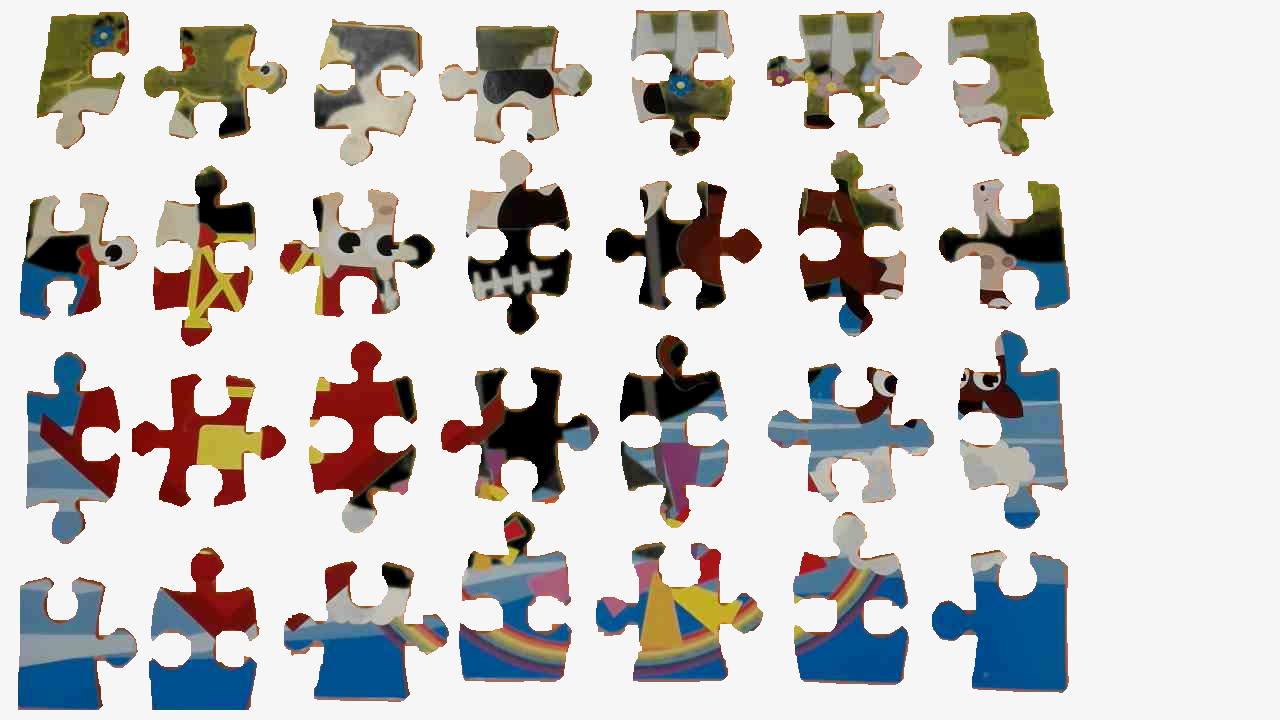
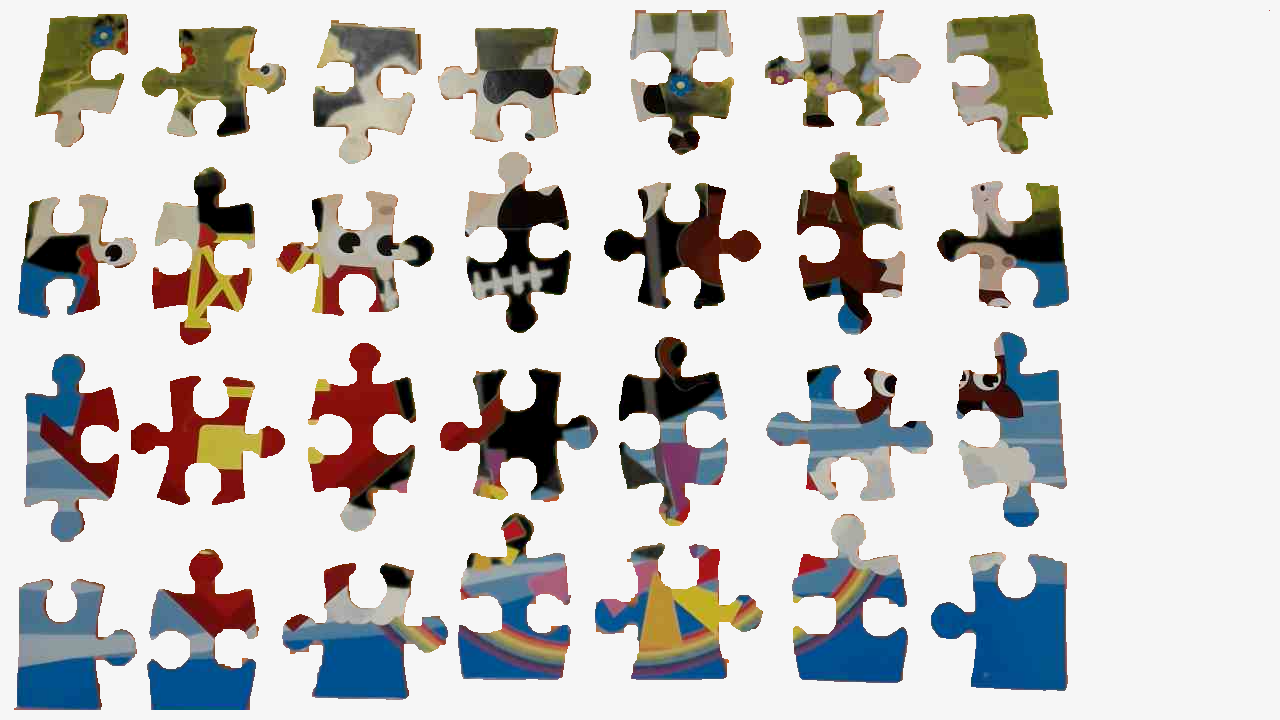
Wed Mar 12 03:05:37 PM CET 2025

Changed region(s): [[0.75, 0.4889, 0.7812, 0.5194], [0.4688, 0.825, 0.5, 0.8556]]

diff --git a/src/analyse.cpp b/src/analyse.cpp
@@ -3,11 +3,10 @@
  * @brief Contains the main program of the project
  **************************************************************************************************/
 
-#include <filesystem>
 #include <iostream>
-#include <bits/fs_ops.h>
-
+#include <unordered_set>
 #include "image_io.h"
+#include "utility.hpp"
 
 bool operator==(const Color& first, const Color& second) {
     return first.r == second.r && first.g == second.g && first.b == second.b;
@@ -25,8 +24,8 @@ bool isColorSimilar(const Color& color, const Color& base, const Color& epsilon)
 
 namespace MathematicalMorphology {
     enum StructuringElement : bool {
-        Square,
-        Cross
+        Square = true,
+        Cross  = false
     };
 
     int applyStructuringElement(const Image& image, int x, int y, StructuringElement structuringElement) {
@@ -98,6 +97,7 @@ int main() {
     int width = puzzle.width();
     int height = puzzle.height();
 
+    /* ---- Get Background Color ---- */
     int pixelAmount = 0;
 
     Color background;
@@ -110,6 +110,7 @@ int main() {
 
     background = background / pixelAmount;
 
+    /* ---- Thresholding ---- */
     Color epsilon(0.2f, 0.1f, 0.04f);
 
     for(int i = 0 ; i < width ; ++i) {
@@ -119,27 +120,27 @@ int main() {
         }
     }
 
+    /* ---- Erase Little Bits and Fill Holes ---- */
+    puzzle = dilate(puzzle, MathematicalMorphology::Square);
+    puzzle = dilate(puzzle, MathematicalMorphology::Square);
     puzzle = dilate(puzzle, MathematicalMorphology::Cross);
-    puzzle = dilate(puzzle, MathematicalMorphology::Cross);
+    puzzle = erode(puzzle, MathematicalMorphology::Square);
+    puzzle = erode(puzzle, MathematicalMorphology::Square);
+    puzzle = erode(puzzle, MathematicalMorphology::Square);
+    puzzle = erode(puzzle, MathematicalMorphology::Square);
+    puzzle = erode(puzzle, MathematicalMorphology::Square);
     puzzle = erode(puzzle, MathematicalMorphology::Cross);
-    puzzle = erode(puzzle, MathematicalMorphology::Cross);
-    puzzle = erode(puzzle, MathematicalMorphology::Cross);
-    puzzle = erode(puzzle, MathematicalMorphology::Cross);
-    puzzle = erode(puzzle, MathematicalMorphology::Cross);
-    puzzle = erode(puzzle, MathematicalMorphology::Cross);
-    puzzle = dilate(puzzle, MathematicalMorphology::Square);
-    puzzle = dilate(puzzle, MathematicalMorphology::Square);
-    puzzle = dilate(puzzle, MathematicalMorphology::Square);
     puzzle = dilate(puzzle, MathematicalMorphology::Square);
 
+    /* ---- Erase the Borders of the Image and the Logo ---- */
     for(int i = 0 ; i < width ; ++i) {
-        for(int j = 0 ; j < 10 ; ++j) { puzzle(i, j) = White(); }
-        for(int j = height - 10 ; j < height ; ++j) { puzzle(i, j) = White(); }
+        for(int j = 0 ; j < 20 ; ++j) { puzzle(i, j) = White(); }
+        for(int j = height - 20 ; j < height ; ++j) { puzzle(i, j) = White(); }
     }
 
     for(int j = 0 ; j < height ; ++j) {
-        for(int i = 0 ; i < 10 ; ++i) { puzzle(i, j) = White(); }
-        for(int i = width - 10 ; i < width ; ++i) { puzzle(i, j) = White(); }
+        for(int i = 0 ; i < 20 ; ++i) { puzzle(i, j) = White(); }
+        for(int i = width - 20 ; i < width ; ++i) { puzzle(i, j) = White(); }
     }
 
     for(int i = 1180 ; i <= 1250 ; ++i) {
@@ -148,20 +149,100 @@ int main() {
         }
     }
 
-    write_image_png(puzzle, "data/processed.png", false);
+    write_image_png(puzzle, "data/binary-mask.png", false);
 
+    /* Applies the Binary Mask to the Original Image and Writes the Result */
     // Image puzzle_original = read_image("data/puzzle.jpg", false);
-    // Image pieces(puzzle);
+    // Image only_pieces(puzzle);
     //
     // for(int i = 0 ; i < width ; ++i) {
     //     for(int j = 0 ; j < height ; ++j) {
     //         if(puzzle(i, j) == Black()) {
-    //             pieces(i, j) = puzzle_original(i, j);
+    //             only_pieces(i, j) = puzzle_original(i, j);
     //         }
     //     }
     // }
     //
-    // write_image_png(srgb(pieces), "data/only_pieces.png", false);
+    // write_image_png(srgb(only_pieces), "data/only_pieces.png", false);
+
+    /* ---- Labeling ---- */
+    std::vector<int> labels(width * height);
+    std::unordered_map<int, int> closures;
+    int maxLabel = 0;
+
+    auto index = [&width](int x, int y) { return y * width + x; };
+
+    static constexpr std::pair<int, int> OFFSETS[]{ { -1, -1 }, { -1, 0 }, { -1, 1 }, { 0, -1 } };
+
+    // First Pass : Initial Labeling
+    for(int i = 0 ; i < width ; ++i) {
+        for(int j = 0 ; j < height ; ++j) {
+            if(puzzle(i, j).r == 1.0f) { continue; }
+
+            std::vector<int> foundLabels;
+
+            for(auto [offsetX, offsetY] : OFFSETS) {
+                int x = i + offsetX;
+                int y = j + offsetY;
+
+                if(x < 0 || y < 0 || x >= width) { continue; }
+
+                int value = labels[index(x, y)];
+                if(value > 0) {
+                    foundLabels.emplace_back(value);
+                }
+            }
+
+            if(foundLabels.empty()) {
+                labels[index(i, j)] = maxLabel++;
+            } else {
+                int min = foundLabels.at(0);
+                for(unsigned int k = 1 ; k < foundLabels.size() ; ++k) {
+                    if(foundLabels.at(k) < min) {
+                        min = foundLabels.at(k);
+                    }
+                }
+
+                labels[index(i, j)] = min;
+
+                for(int label : foundLabels) {
+                    if(label != min) {
+                        closures[label] = min;
+                    }
+                }
+            }
+        }
+    }
+
+    // Second Pass : Transitive Closures
+    std::unordered_map<int, Color> labelColors;
+    for(int& label : labels) {
+        int closure = label;
+
+        while(closures.contains(closure)) {
+            closure = closures.at(closure);
+        }
+
+        label = closure;
+        if(!labelColors.contains(label)) {
+            labelColors.emplace(label, Color(random(0.0f, 1.0f), random(0.0f, 1.0f), random(0.0f, 1.0f)));
+        }
+    }
+
+    std::cout << "There are " << labelColors.size() << " unique labels \n";
+
+    for(int i = 0 ; i < width ; ++i) {
+        for(int j = 0 ; j < height ; ++j) {
+            const Color& pixel = puzzle(i, j);
+            if(pixel.r == 0.0f) {
+                puzzle(i, j) = labelColors.at(labels.at(index(i, j)));
+            } else {
+                puzzle(i, j) = Black();
+            }
+        }
+    }
+
+    write_image_png(srgb(puzzle), "data/labels.png", false);
 
     return 0;
 }

diff --git a/src/utility.cpp b/src/utility.cpp
@@ -1,0 +1,40 @@
+/***************************************************************************************************
+ * @file  utility.cpp
+ * @brief 
+ **************************************************************************************************/
+
+#include "utility.hpp"
+
+#include <random>
+
+float random(float min, float max) {
+    static std::random_device seed;
+    static std::default_random_engine generator(seed());
+
+    return std::uniform_real_distribution<float>(min, max)(generator);
+}
+
+int random(int min, int max) {
+    static std::random_device seed;
+    static std::default_random_engine generator(seed());
+
+    return std::uniform_int_distribution<int>(min, max)(generator);
+}
+
+void operator+=(Color& left, const Color& right) {
+    left.r += right.r;
+    left.g += right.g;
+    left.b += right.b;
+}
+
+void operator*=(Color& color, float scalar) {
+    color.r *= scalar;
+    color.g *= scalar;
+    color.b *= scalar;
+}
+
+void operator*=(Color& color, const Color& color2) {
+    color.r *= color2.r;
+    color.g *= color2.g;
+    color.b *= color2.b;
+}

diff --git a/include/utility.hpp b/include/utility.hpp
@@ -1,0 +1,19 @@
+/***************************************************************************************************
+ * @file  utility.hpp
+ * @brief 
+ **************************************************************************************************/
+
+#pragma once
+
+#include "color.h"
+
+float random(float min, float max);
+int random(int min, int max);
+
+inline float pow2(float x) {
+    return x * x;
+}
+
+void operator+=(Color& left, const Color& right);
+void operator*=(Color& color, float scalar);
+void operator*=(Color& color, const Color& color2);
